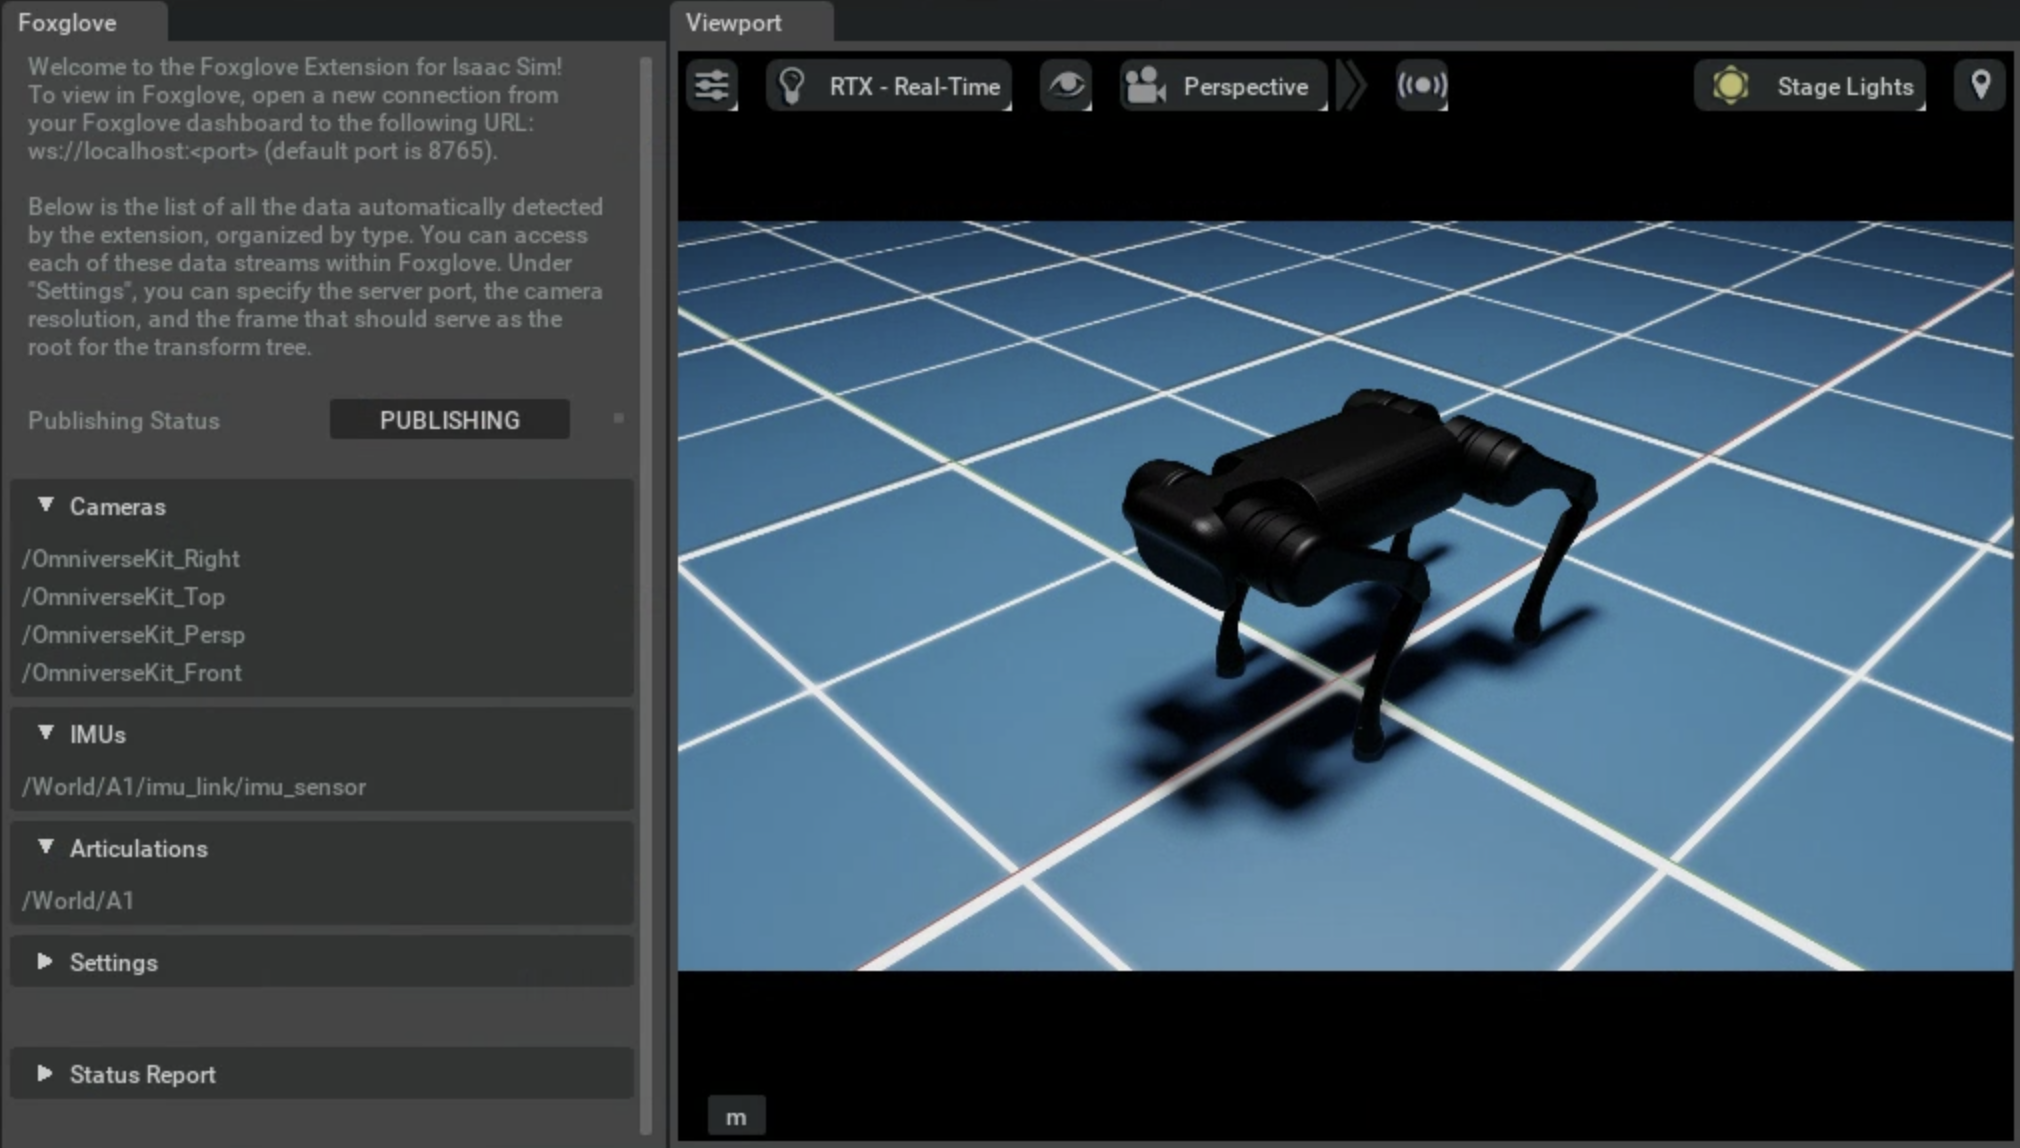
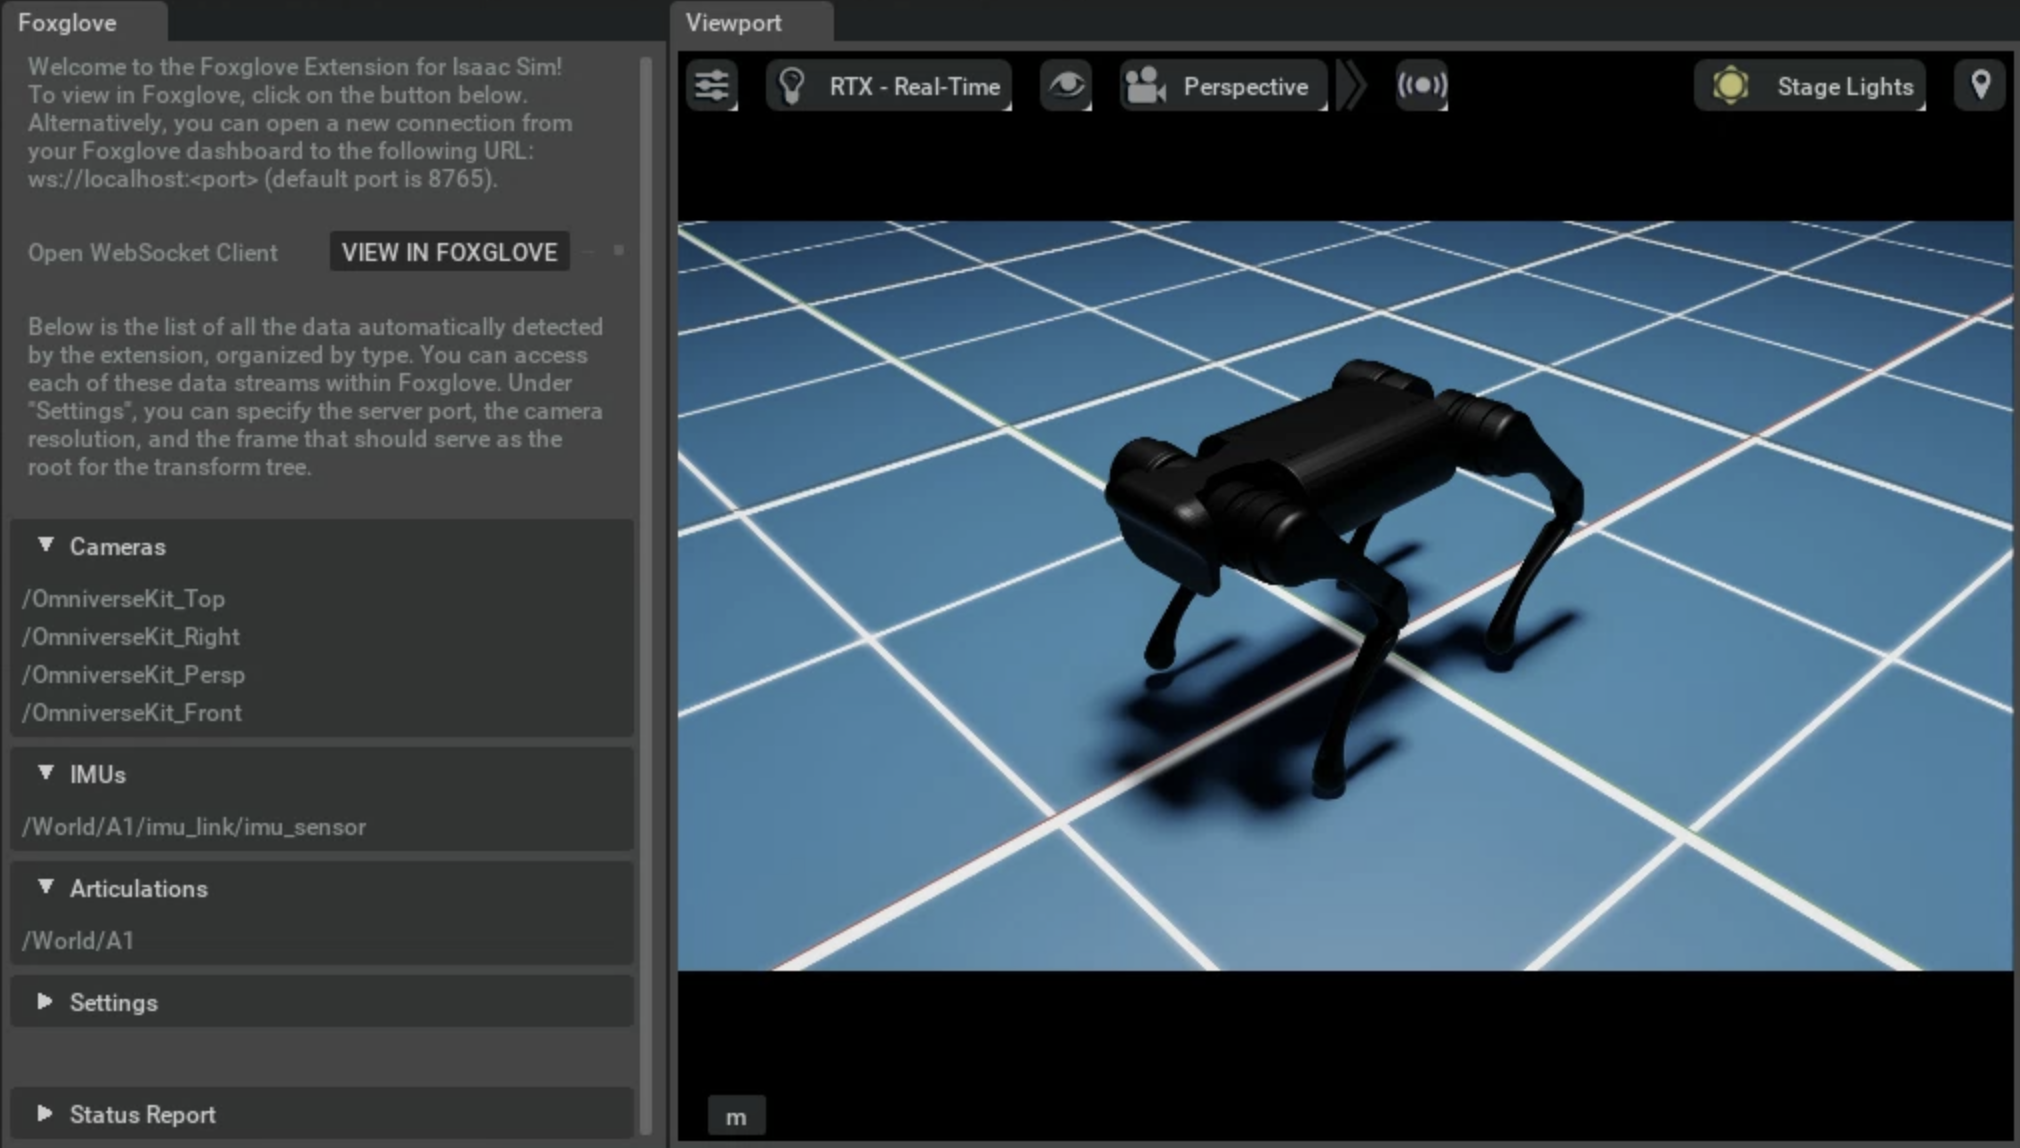
Updated docs

Changed region(s): [[0.0, 0.061, 0.998, 0.8841], [0.0312, 0.9146, 0.1248, 0.9756]]

diff --git a/README.md b/README.md
@@ -6,11 +6,13 @@ An Isaac Sim extension to connect any project to the Foxglove visualization plat
 
 ## Using the Extension
 
-Once the extension is installed, enable it and open the extension tab under `Foxglove` > `Foxglove Extension` in the toolbar. A Foxglove server should be started automatically.
+Once the extension is installed, enable it and open the extension tab under `Foxglove` > `Foxglove Extension` in the toolbar. A Foxglove server will be started automatically and remain open until this tab is closed.
 
 <img src="images/extension_tab.png" alt="Foxglove extension tab inside Isaac Sim" width="80%"><br>
 
-From your [Foxglove Dashboard](https://app.foxglove.dev/) in the desktop app or in a browser, open a new WebSocket connection to URL: `ws://localhost:<port>`, where `<port>` can be specified in the *Settings* menu of the extension tab (default is `8765`).
+To visualize the data, simply click on "View in Foxglove" to directly connect to the WebSocket session.
+
+Alternatively, from your [Foxglove Dashboard](https://app.foxglove.dev/), open a new WebSocket connection to URL: `ws://localhost:<port>`, where `<port>` can be specified in the *Settings* menu of the extension tab (default is `8765`).
 
 <img src="images/new_connection.png" alt="Opening a new connection in the Foxglove Dashboard" width="60%"><br>
 

diff --git a/exts/foxglove.tools.ws_bridge/docs/README.md b/exts/foxglove.tools.ws_bridge/docs/README.md
@@ -5,9 +5,9 @@ All data sources are detected automatically and updated dynamically and will app
 
 # Usage
 
-Inside Isaac Sim, open the Foxglove Extension tab by clicking on Foxglove > Foxglove Extension in the toolbar, then
-follow the instructions to start publishing.
+Inside Isaac Sim, open the Foxglove Extension tab by clicking on Foxglove > Foxglove Extension in the toolbar. The Foxglove 
+server will remain open as long as this tab is not closed.
 
-To visualize the data, you will need to open a WebSocket connection from your Foxglove Dashboard to ws://localhost:<port>.
-Inside Isaac Sim, you can click on Foxglove > Open in Browser in the toolbar to directly connect to the websocket session.
+To visualize the data, simply click on "View in Foxglove" to directly connect to the WebSocket session.
+Alternatively, you can manually open a WebSocket connection from your Foxglove Dashboard to ws://localhost:<port>.
 

diff --git a/exts/foxglove.tools.ws_bridge/docs/CHANGELOG.md b/exts/foxglove.tools.ws_bridge/docs/CHANGELOG.md
@@ -28,8 +28,13 @@ Initial version of the Foxglove Extension: hard-coded for the Quadruped Isaac Ex
 
 ### Added
 
-- Server now starts automatically
+- "View in Foxglove" button to directly open a WebSocket client in browser
+- Server starts automatically
 - Settings collapsable menu in the extension tab
 - Can set server port manually
 - Can choose camera resolution
 - Can select root frame for TF tree
+
+### Removed
+
+- Button to start/stop server
